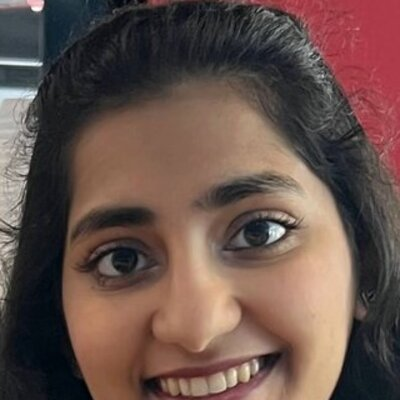
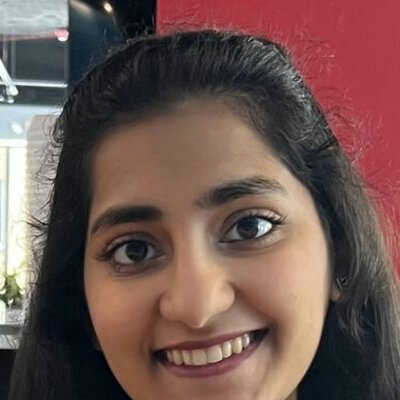
Adjust Aadya/Henna crops; add hover popup showing original photo with name
- Aadya: loosened crop with more forehead room
- Henna: shifted crop to better center face in circular viewport
- All group photos: hovering thumbnail shows full original image with name caption

diff --git a/index.html b/index.html
@@ -1268,7 +1268,7 @@ AI, Big Data, Cosmology</p>
       <div class="col py-2">
         <div class="card"><div class="card-body">
           <div class="float-right text-muted exp-meta text-center">
-            <img src="/img/group/jason.jpg" alt="Jason Hinkle" class="group-photo">
+            <img src="/img/group/jason.jpg" data-original="/files/group_originals/jason_original.jpg" alt="Jason Hinkle" class="group-photo">
             <div>Aug. 2025–present</div>
           </div>
           <h4 class="card-title exp-title text-muted mt-0 mb-1"><a href="https://jhinkle13.github.io/" target="_blank" rel="noopener">Jason Hinkle</a> <small><a href="https://ui.adsabs.harvard.edu/search/p_=0&q=author%3A%22Hinkle%2C%20Jason%22&sort=date%20desc%2C%20bibcode%20desc" target="_blank" rel="noopener">[ADS]</a></small></h4>
@@ -1290,7 +1290,7 @@ AI, Big Data, Cosmology</p>
       <div class="col py-2">
         <div class="card"><div class="card-body">
           <div class="float-right text-muted exp-meta text-center">
-            <img src="/img/group/jack.jpg" alt="Jack O'Brien" class="group-photo">
+            <img src="/img/group/jack.jpg" data-original="/files/group_originals/jack_original.jpg" alt="Jack O'Brien" class="group-photo">
             <div>Aug. 2024–present</div>
           </div>
           <h4 class="card-title exp-title text-muted mt-0 mb-1">Jack O'Brien <small><a href="https://ui.adsabs.harvard.edu/search/p_=0&q=author%3A%22O%27Brien%2C%20Jack%22&sort=date%20desc%2C%20bibcode%20desc" target="_blank" rel="noopener">[ADS]</a></small></h4>
@@ -1313,7 +1313,7 @@ AI, Big Data, Cosmology</p>
       <div class="col py-2">
         <div class="card"><div class="card-body">
           <div class="float-right text-muted exp-meta text-center">
-            <img src="/img/group/ayan.jpg" alt="Ayan Mitra" class="group-photo">
+            <img src="/img/group/ayan.jpg" data-original="/files/group_originals/ayan_original.jpg" alt="Ayan Mitra" class="group-photo">
             <div>Nov. 2023–present</div>
           </div>
           <h4 class="card-title exp-title text-muted mt-0 mb-1">Ayan Mitra <small><a href="https://ui.adsabs.harvard.edu/search/p_=0&q=author%3A%22Mitra%2C%20Ayan%22&sort=date%20desc%2C%20bibcode%20desc" target="_blank" rel="noopener">[ADS]</a></small></h4>
@@ -1346,7 +1346,7 @@ AI, Big Data, Cosmology</p>
       <div class="col py-2">
         <div class="card"><div class="card-body">
           <div class="float-right text-muted exp-meta text-center">
-            <img src="/img/group/athena.jpg" alt="Athena Engholm" class="group-photo">
+            <img src="/img/group/athena.jpg" data-original="/files/group_originals/athena_original.jpg" alt="Athena Engholm" class="group-photo">
             <div>Aug. 2025–present</div>
           </div>
           <h4 class="card-title exp-title text-muted mt-0 mb-1">Athena Engholm <small><a href="https://ui.adsabs.harvard.edu/search/p_=0&q=author%3A%22Engholm%2C%20Athena%22&sort=date%20desc%2C%20bibcode%20desc" target="_blank" rel="noopener">[ADS]</a></small></h4>
@@ -1367,7 +1367,7 @@ AI, Big Data, Cosmology</p>
       <div class="col py-2">
         <div class="card"><div class="card-body">
           <div class="float-right text-muted exp-meta text-center">
-            <img src="/img/group/henna.jpg" alt="Henna Abunemeh" class="group-photo">
+            <img src="/img/group/henna.jpg" data-original="/files/group_originals/henna_original.jpg" alt="Henna Abunemeh" class="group-photo">
             <div>Aug. 2024–present</div>
           </div>
           <h4 class="card-title exp-title text-muted mt-0 mb-1">Henna Abunemeh <small><a href="https://ui.adsabs.harvard.edu/search/p_=0&q=author%3A%22Abunemeh%2C%20Henna%22&sort=date%20desc%2C%20bibcode%20desc" target="_blank" rel="noopener">[ADS]</a></small></h4>
@@ -1390,7 +1390,7 @@ AI, Big Data, Cosmology</p>
       <div class="col py-2">
         <div class="card"><div class="card-body">
           <div class="float-right text-muted exp-meta text-center">
-            <img src="/img/group/padma.jpg" alt="Padmavathi Venkatraman" class="group-photo">
+            <img src="/img/group/padma.jpg" data-original="/files/group_originals/padma_original.jpg" alt="Padmavathi Venkatraman" class="group-photo">
             <div>Aug. 2024–present</div>
           </div>
           <h4 class="card-title exp-title text-muted mt-0 mb-1">Padmavathi Venkatraman <small><a href="https://ui.adsabs.harvard.edu/search/p_=0&q=author%3A%22Venkatraman%2C%20Padmavathi%22&sort=date%20desc%2C%20bibcode%20desc" target="_blank" rel="noopener">[ADS]</a></small></h4>
@@ -1413,7 +1413,7 @@ AI, Big Data, Cosmology</p>
       <div class="col py-2">
         <div class="card"><div class="card-body">
           <div class="float-right text-muted exp-meta text-center">
-            <img src="/img/group/aadya.jpg" alt="Aadya Agrawal" class="group-photo">
+            <img src="/img/group/aadya.jpg" data-original="/files/group_originals/aadya_original.jpg" alt="Aadya Agrawal" class="group-photo">
             <div>Aug. 2023–present</div>
           </div>
           <h4 class="card-title exp-title text-muted mt-0 mb-1">Aadya Agrawal <small><a href="https://ui.adsabs.harvard.edu/search/p_=0&q=author%3A%22Agrawal%2C%20Aadya%22&sort=date%20desc%2C%20bibcode%20desc" target="_blank" rel="noopener">[ADS]</a></small></h4>
@@ -1436,7 +1436,7 @@ AI, Big Data, Cosmology</p>
       <div class="col py-2">
         <div class="card"><div class="card-body">
           <div class="float-right text-muted exp-meta text-center">
-            <img src="/img/group/tanner.jpg" alt="Tanner Murphey" class="group-photo">
+            <img src="/img/group/tanner.jpg" data-original="/files/group_originals/tanner_original.jpg" alt="Tanner Murphey" class="group-photo">
             <div>Aug. 2023–present</div>
           </div>
           <h4 class="card-title exp-title text-muted mt-0 mb-1"><a href="https://ctmurphey.github.io/" target="_blank" rel="noopener">Tanner Murphey</a> <small><a href="https://ui.adsabs.harvard.edu/search/p_=0&q=author%3A%22Murphey%2C%20Tanner%22&sort=date%20desc%2C%20bibcode%20desc" target="_blank" rel="noopener">[ADS]</a></small></h4>
@@ -1458,7 +1458,7 @@ AI, Big Data, Cosmology</p>
       <div class="col py-2">
         <div class="card"><div class="card-body">
           <div class="float-right text-muted exp-meta text-center">
-            <img src="/img/group/haille.jpg" alt="Haille Perkins" class="group-photo">
+            <img src="/img/group/haille.jpg" data-original="/files/group_originals/haille_original.jpg" alt="Haille Perkins" class="group-photo">
             <div>2023–present</div>
           </div>
           <h4 class="card-title exp-title text-muted mt-0 mb-1">Haille Perkins <small><a href="https://ui.adsabs.harvard.edu/search/p_=0&q=author%3A%22Perkins%2C%20Haille%22&sort=date%20desc%2C%20bibcode%20desc" target="_blank" rel="noopener">[ADS]</a></small></h4>
@@ -1482,7 +1482,7 @@ AI, Big Data, Cosmology</p>
       <div class="col py-2">
         <div class="card"><div class="card-body">
           <div class="float-right text-muted exp-meta text-center">
-            <img src="/img/group/amanda.jpg" alt="Amanda Wasserman" class="group-photo">
+            <img src="/img/group/amanda.jpg" data-original="/files/group_originals/amanda_original.jpg" alt="Amanda Wasserman" class="group-photo">
             <div>2021–present</div>
           </div>
           <h4 class="card-title exp-title text-muted mt-0 mb-1"><a href="https://amandawasserman.github.io/" target="_blank" rel="noopener">Amanda Wasserman</a> <small><a href="https://ui.adsabs.harvard.edu/search/p_=0&q=author%3A%22Wasserman%2C%20Amanda%22&sort=date%20desc%2C%20bibcode%20desc" target="_blank" rel="noopener">[ADS]</a></small></h4>
@@ -1553,7 +1553,7 @@ AI, Big Data, Cosmology</p>
       <div class="col py-2">
         <div class="card"><div class="card-body">
           <div class="text-muted exp-meta card-text text-center">
-            <img src="/img/group/ray.jpg" alt="Ray Liang" class="group-photo">
+            <img src="/img/group/ray.jpg" data-original="/files/group_originals/ray_original.jpeg" alt="Ray Liang" class="group-photo">
             <div>Nov. 2024–present</div>
           </div>
           <h4 class="card-title exp-title text-muted mt-0 mb-1">Ray Liang</h4>
@@ -1631,7 +1631,7 @@ AI, Big Data, Cosmology</p>
       <div class="col py-2">
         <div class="card"><div class="card-body">
           <div class="float-right text-muted exp-meta text-center">
-            <img src="/img/group/arjun.jpg" alt="Arjun Chainani" class="group-photo">
+            <img src="/img/group/arjun.jpg" data-original="/files/group_originals/arjun_original.jpg" alt="Arjun Chainani" class="group-photo">
             <div>Aug. 2024–present</div>
           </div>
           <h4 class="card-title exp-title text-muted mt-0 mb-1"><a href="https://arjunchainani.github.io/" target="_blank" rel="noopener">Arjun Chainani</a></h4>
@@ -2305,6 +2305,87 @@ url('img/footer.jpg')
       btn.classList.remove('visible');
     }
   }, {passive: true});
+})();
+</script>
+
+<!-- Group photo hover popup -->
+<style>
+#group-photo-popup {
+  position: fixed;
+  z-index: 9998;
+  pointer-events: none;
+  background: #fff;
+  border-radius: 8px;
+  box-shadow: 0 6px 24px rgba(0,0,0,0.22);
+  padding: 8px 8px 6px;
+  text-align: center;
+  opacity: 0;
+  visibility: hidden;
+  transition: opacity 0.18s ease, visibility 0.18s ease;
+  max-width: 240px;
+}
+#group-photo-popup.visible {
+  opacity: 1;
+  visibility: visible;
+}
+#group-photo-popup img {
+  display: block;
+  max-width: 224px;
+  max-height: 280px;
+  border-radius: 5px;
+  object-fit: cover;
+}
+#group-photo-popup p {
+  margin: 5px 0 0;
+  font-size: 0.82rem;
+  font-weight: 500;
+  color: #444;
+  white-space: nowrap;
+}
+</style>
+<div id="group-photo-popup">
+  <img id="gp-popup-img" src="" alt="">
+  <p id="gp-popup-name"></p>
+</div>
+<script>
+(function() {
+  var popup   = document.getElementById('group-photo-popup');
+  var popImg  = document.getElementById('gp-popup-img');
+  var popName = document.getElementById('gp-popup-name');
+  var hideTimer = null;
+
+  document.querySelectorAll('.group-photo[data-original]').forEach(function(img) {
+    img.style.cursor = 'pointer';
+
+    img.addEventListener('mouseenter', function() {
+      if (hideTimer) { clearTimeout(hideTimer); hideTimer = null; }
+
+      popImg.src = img.dataset.original;
+      popName.textContent = img.alt;
+
+      // Position popup above the thumbnail; fall back to below if near top
+      var rect = img.getBoundingClientRect();
+      var popW = 240, popH = 310; // approximate
+      var left = rect.left + rect.width / 2 - popW / 2;
+      var top  = rect.top - popH - 10;
+
+      if (top < 8) top = rect.bottom + 10;
+      left = Math.max(8, Math.min(left, window.innerWidth - popW - 8));
+
+      popup.style.left = left + 'px';
+      popup.style.top  = top  + 'px';
+      popup.classList.add('visible');
+    });
+
+    img.addEventListener('mouseleave', function() {
+      popup.classList.remove('visible');
+      // Clear src after transition so it resets cleanly for next hover
+      hideTimer = setTimeout(function() {
+        popImg.src = '';
+        hideTimer = null;
+      }, 200);
+    });
+  });
 })();
 </script>
   </body>
